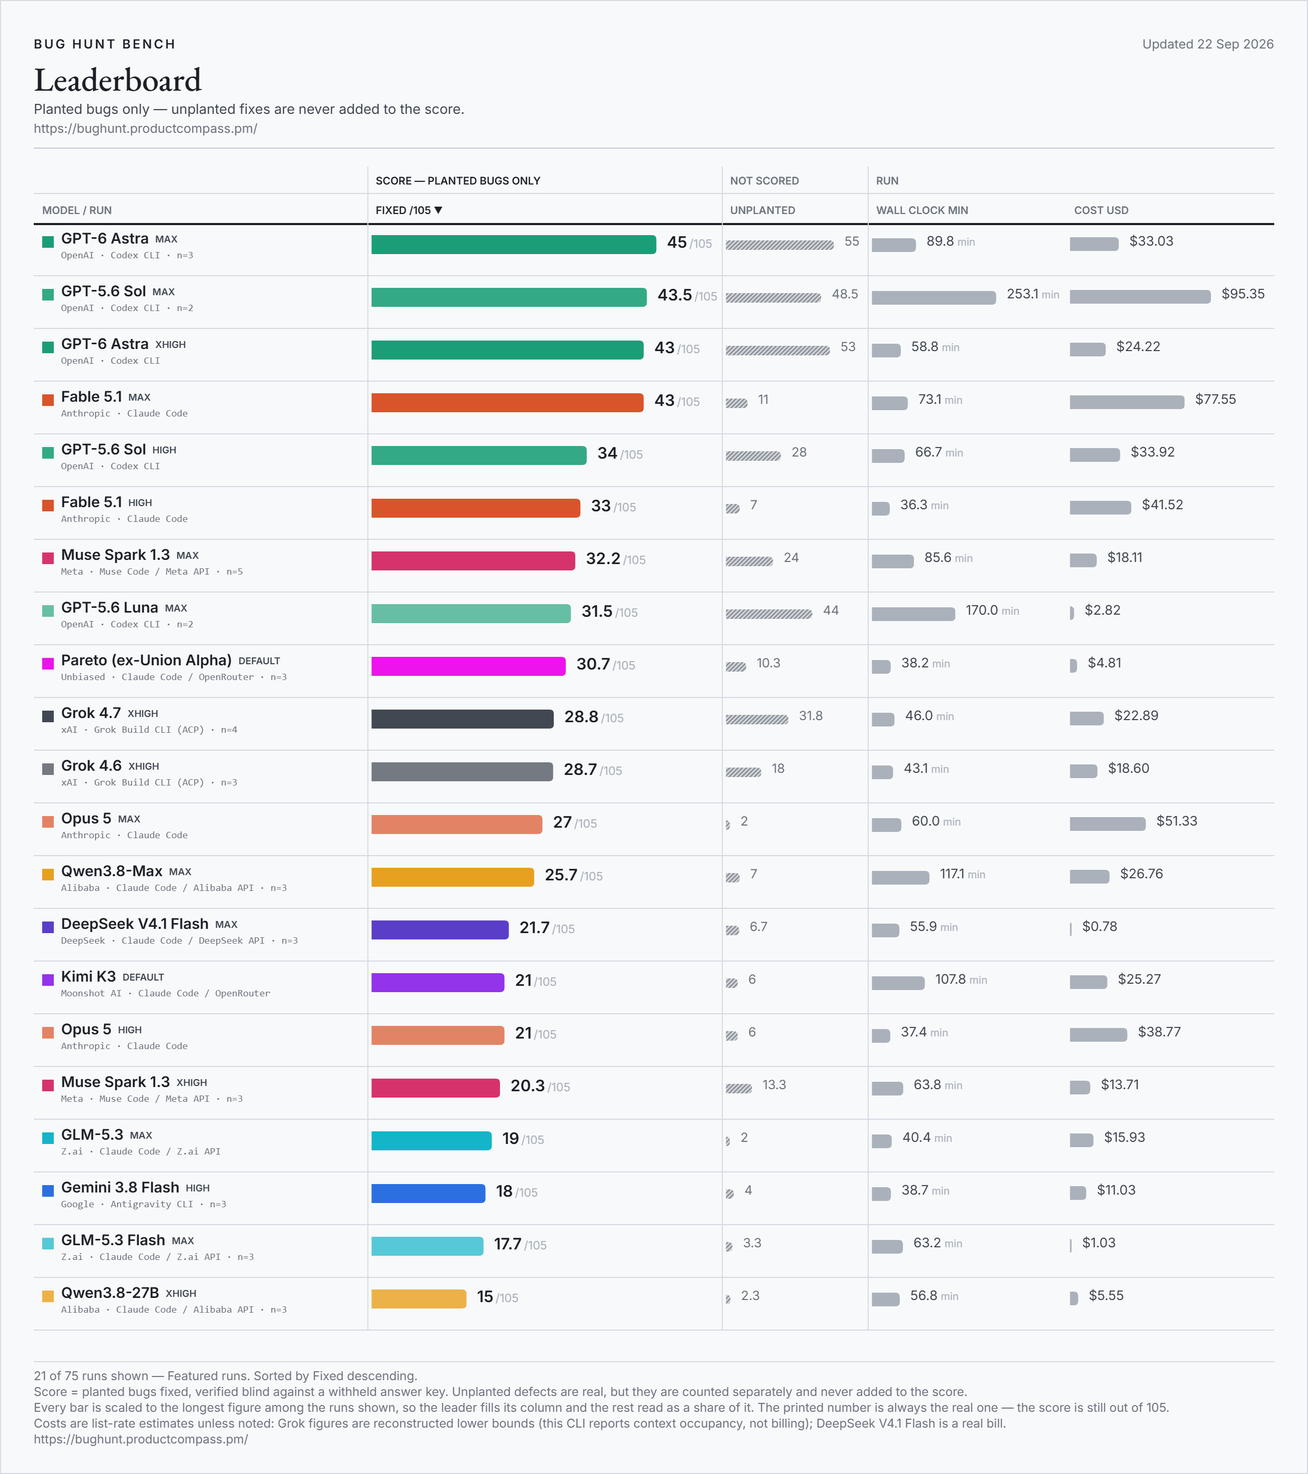
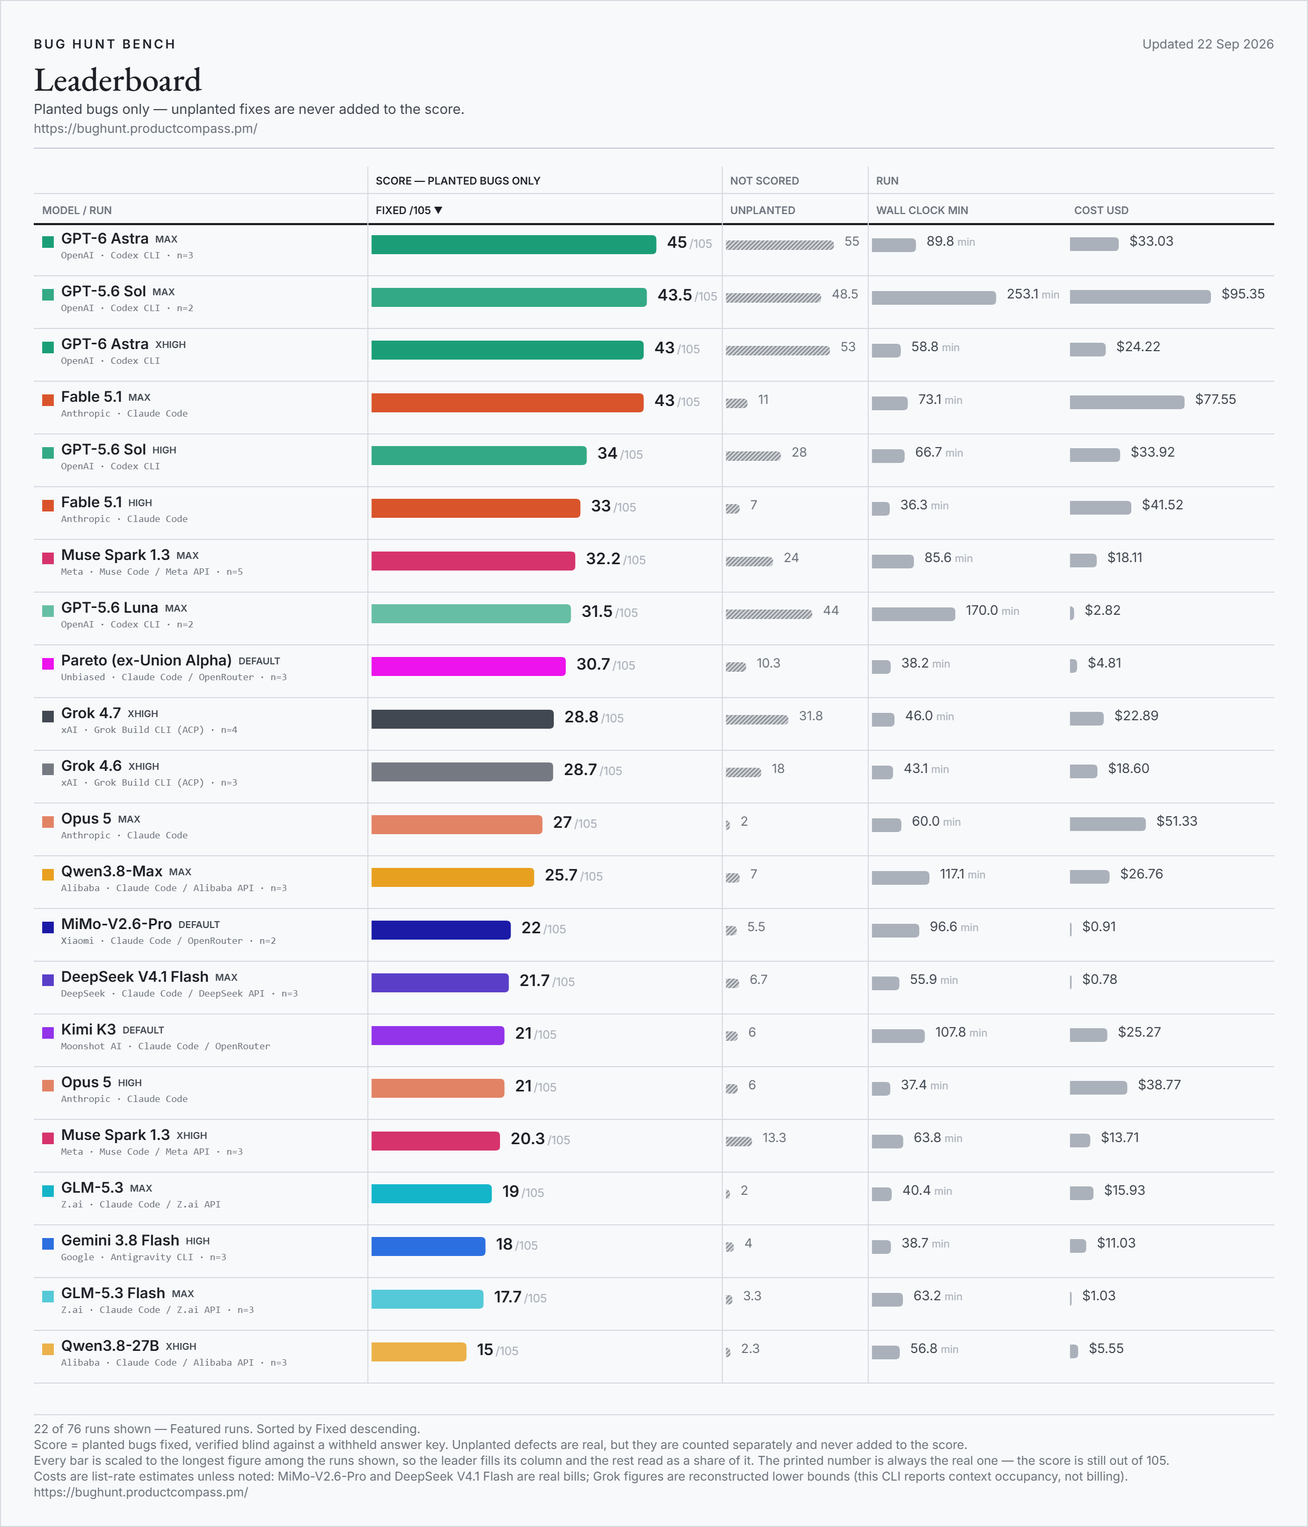
bug hunt bench: MiMo-V2.6-Pro - mean of 2 (22/105)

diff --git a/index.html b/index.html
@@ -22,14 +22,14 @@
 <meta property="og:title" content="Bug Hunt Bench — frontier coding models against real planted bugs">
 <meta property="og:description" content="A blind-graded benchmark of frontier coding models on real bugs planted in two production codebases. The score counts planted bugs only; extra fixes are tracked separately and never added.">
 <meta property="og:url" content="https://bughunt.productcompass.pm/">
-<meta property="og:image" content="https://bughunt.productcompass.pm/og-image.png?v=2026-09-22-99951fce">
+<meta property="og:image" content="https://bughunt.productcompass.pm/og-image.png?v=2026-09-22-772a47c0">
 <meta property="og:image:width" content="1200">
 <meta property="og:image:height" content="630">
 <meta property="og:image:alt" content="Bug Hunt Bench leaderboard">
 <meta name="twitter:card" content="summary_large_image">
 <meta name="twitter:title" content="Bug Hunt Bench — frontier coding models against real planted bugs">
 <meta name="twitter:description" content="A blind-graded benchmark of frontier coding models on real bugs planted in two production codebases. The score counts planted bugs only.">
-<meta name="twitter:image" content="https://bughunt.productcompass.pm/og-image.png?v=2026-09-22-99951fce">
+<meta name="twitter:image" content="https://bughunt.productcompass.pm/og-image.png?v=2026-09-22-772a47c0">
 <meta name="twitter:creator" content="@PawelHuryn">
 
 <link rel="icon" href="/assets/favicon.svg" type="image/svg+xml">

diff --git a/method.html b/method.html
@@ -20,14 +20,14 @@
 <meta property="og:title" content="Method, caveats and definitions — Bug Hunt Bench">
 <meta property="og:description" content="How Bug Hunt Bench is run and graded, what the board cannot tell you, and what every column on it means.">
 <meta property="og:url" content="https://bughunt.productcompass.pm/method">
-<meta property="og:image" content="https://bughunt.productcompass.pm/og-image.png?v=2026-09-22-99951fce">
+<meta property="og:image" content="https://bughunt.productcompass.pm/og-image.png?v=2026-09-22-772a47c0">
 <meta property="og:image:width" content="1200">
 <meta property="og:image:height" content="630">
 <meta property="og:image:alt" content="Bug Hunt Bench leaderboard">
 <meta name="twitter:card" content="summary_large_image">
 <meta name="twitter:title" content="Method, caveats and definitions — Bug Hunt Bench">
 <meta name="twitter:description" content="How Bug Hunt Bench is run and graded, what the board cannot tell you, and what every column on it means.">
-<meta name="twitter:image" content="https://bughunt.productcompass.pm/og-image.png?v=2026-09-22-99951fce">
+<meta name="twitter:image" content="https://bughunt.productcompass.pm/og-image.png?v=2026-09-22-772a47c0">
 <meta name="twitter:creator" content="@PawelHuryn">
 
 <link rel="icon" href="/assets/favicon.svg" type="image/svg+xml">

diff --git a/README.md b/README.md
@@ -7,13 +7,13 @@
 If the numbers save you a benchmark run of your own, **star this repo** — that is what keeps the bench findable, and new models are added as they ship.
 
 <!-- leaderboard:start -->
-![Bug Hunt Bench leaderboard, the featured runs, updated Sep 22, 2026](assets/leaderboard.png?v=2026-09-22-1406c30e)
+![Bug Hunt Bench leaderboard, the featured runs, updated Sep 22, 2026](assets/leaderboard.png?v=2026-09-22-bedd37fd)
 
-**Updated Sep 22, 2026 · 110 rows from 159 scored runs · 34 models · 33 of 105 bugs have never been fixed by any model.**
+**Updated Sep 22, 2026 · 111 rows from 161 scored runs · 34 models · 33 of 105 bugs have never been fixed by any model.**
 
 **Current leader:** GPT-6 Astra at `max` effort — **45 / 105** (22/45 on repo 1, 23/60 on repo 2).
 
-**Best per lab:** OpenAI: GPT-6 Astra (`max`) 45 · Anthropic: Fable 5.1 (`max`) 43 · Meta: Muse Spark 1.3 (`max`) 32.2 · Unbiased: Pareto (ex-Union Alpha) (`default`) 30.7 · xAI: Grok 4.7 (`xhigh`) 28.8 · Alibaba: Qwen3.8-Flash (`max`) 26 · Google: Gemini 3.7 Flash (`high`) 22 · DeepSeek: DeepSeek V4.1 Flash (`max`) 21.7 · Moonshot AI: Kimi K3 (`default`) 21 · Z.ai: GLM-5.3 (`max`) 19 · Xiaomi: MiMo-V2.6-Pro (`enabled`) 18 · Tencent: Hy4 Preview (`default`) 18
+**Best per lab:** OpenAI: GPT-6 Astra (`max`) 45 · Anthropic: Fable 5.1 (`max`) 43 · Meta: Muse Spark 1.3 (`max`) 32.2 · Unbiased: Pareto (ex-Union Alpha) (`default`) 30.7 · xAI: Grok 4.7 (`xhigh`) 28.8 · Alibaba: Qwen3.8-Flash (`max`) 26 · Xiaomi: MiMo-V2.6-Pro (`default`) 22 · Google: Gemini 3.7 Flash (`high`) 22 · DeepSeek: DeepSeek V4.1 Flash (`max`) 21.7 · Moonshot AI: Kimi K3 (`default`) 21 · Z.ai: GLM-5.3 (`max`) 19 · Tencent: Hy4 Preview (`default`) 18
 
 | # | Model | Harness | Effort | Runs | Fixed /105 | Repo 1 /45 | Repo 2 /60 | Extras | Wall | Cost | Date |
 |--:|---|---|---|--:|--:|--:|--:|--:|--:|--:|---|
@@ -47,51 +47,52 @@ If the numbers save you a benchmark run of your own, **star this repo** — that
 | 28 | Qwen3.8-Flash | Claude Code / Alibaba API | low | 1 | **23** | 11 | 12 | 7 | 98 min | $1.37 | 2026-09-11 |
 | 29 | GPT-5.6 Luna | Codex CLI | xhigh | 1 | **23** | 10 | 13 | 53 | 136 min | $2.50 | 2026-08-28 |
 | 30 | Grok 4.6 | Grok Build CLI (ACP) | high | 1 | **23** | 7 | 16 | 16 | 33 min | $15.73 floor | 2026-08-28 |
-| 31 | Grok 4.6 | Grok Build CLI (ACP) | medium | 1 | **22** | 9 | 13 | 11 | 26 min | $5.80 floor | 2026-08-28 |
-| 32 | Gemini 3.7 Flash | Gemini CLI (retired) + model-pinning gateway | high | 1 | **22** | 8 | 14 | 4 | 97 min | $8.43 | 2026-08-24 |
-| 33 | DeepSeek V4.1 Flash | Claude Code / DeepSeek API | max | 3 | **21.7** | 11.3 | 10.3 | 6.7 | 56 min | $0.78 bill | 2026-09-15 |
-| 34 | Fable 5.1 | Claude Code | medium | 1 | **21** | 8 | 13 | 3 | 23 min | $17.46 | 2026-09-10 |
-| 35 | Kimi K3 | Claude Code / OpenRouter | default | 1 | **21** | 4 | 17 | 6 | 108 min | $25.27 | 2026-07-26 |
-| 36 | Opus 5 | Claude Code | high | 1 | **21** | 11 | 10 | 6 | 37 min | $38.77 | 2026-07-26 |
-| 37 | Muse Spark 1.3 | Muse Code / Meta API | xhigh | 3 | **20.3** | 8 | 12.3 | 13.3 | 64 min | $13.71 | 2026-09-14 |
-| 38 | GPT-5.6 Terra | Codex CLI | xhigh | 1 | **20** | 9 | 11 | 29 | 57 min | $8.98 | 2026-08-28 |
-| 39 | Grok 4.7 | Grok Build CLI (ACP) | high | 3 | **19.3** | 8.7 | 10.7 | 15.7 | 38 min | $12.29 floor | 2026-09-21 |
-| 40 | DeepSeek V4.1 Flash | Claude Code / DeepSeek API | high | 1 | **19** | 9 | 10 | 4 | 26 min | $0.31 bill | 2026-09-10 |
-| 41 | GLM-5.3 | Claude Code / Z.ai API | max | 1 | **19** | 9 | 10 | 2 | 40 min | $15.93 | 2026-09-10 |
-| 42 | Muse Spark 1.3 | Muse Code / Meta API | high | 3 | **18.7** | 8.7 | 10 | 19.3 | 76 min | $12.94 | 2026-09-14 |
-| 43 | MiMo-V2.6-Pro | Claude Code / Xiaomi first-party | enabled | 1 | **18** | 9 | 9 | 4 | 75 min | $0.59 | 2026-09-22 |
-| 44 | Hy4 Preview | Claude Code / OpenRouter | default | 1 | **18** | 9 | 9 | 2 | 68 min | $3.13 bill | 2026-08-28 |
-| 45 | GPT-5.6 Terra | Codex CLI | high | 1 | **18** | 7 | 11 | 17 | 28 min | $5.89 | 2026-08-27 |
-| 46 | Gemini 3.8 Flash | Antigravity CLI | high | 3 | **18** | 6.7 | 11.3 | 4 | 39 min | $11.03 | 2026-09-15 |
-| 47 | GLM-5.3 Flash | Claude Code / Z.ai API | max | 3 | **17.7** | 9.3 | 8.3 | 3.3 | 63 min | $1.03 | 2026-09-15 |
-| 48 | Grok 4.5 | Grok Build CLI (ACP) | high | 1 | **17** | 5 | 12 | 10 | 28 min | $8.50 floor | 2026-08-06 |
-| 49 | Muse Spark 1.2 | Claude Code / Meta API | xhigh | 1 | **17** | 6 | 11 | 12 | 36 min | $13.99 | 2026-08-06 |
-| 50 | Ox Alpha (stealth) | Claude Code / OpenRouter | default | 1 | **16** | 8 | 8 | 3 | 59 min | free | 2026-08-25 |
-| 51 | GLM-5.3 Flash | Claude Code / Z.ai API | high | 1 | **16** | 9 | 7 | 4 | 62 min | $0.94 | 2026-09-13 |
-| 52 | DeepSeek V4-Pro | Claude Code / DeepSeek API | max | 1 | **16** | 8 | 8 | 4 | 37 min | $1.89 bill | 2026-09-10 |
-| 53 | Gemini 3.7 Flash | Antigravity CLI | high | 1 | **16** | 4 | 12 | 2 | 23 min | $6.36 | 2026-08-28 |
-| 54 | Grok 4.7 | Grok Build CLI (ACP) | low | 3 | **15.7** | 10.3 | 5.3 | 18.3 | 22 min | $9.36 floor | 2026-09-21 |
-| 55 | GPT-5.6 Terra | Codex CLI | medium | 1 | **15** | 4 | 11 | 6 | 20 min | $3.87 | 2026-08-27 |
-| 56 | Grok 4.6 | Grok Build CLI (ACP) | low | 1 | **15** | 6 | 9 | 9 | 18 min | $4.14 floor | 2026-08-27 |
-| 57 | Qwen3.8-27B | Claude Code / Alibaba API | xhigh | 3 | **15** | 5.7 | 9.3 | 2.3 | 57 min | $5.55 | 2026-09-15 |
-| 58 | Opus 4.8 | Claude Code | max | 1 | **15** | 6 | 9 | 3 | 109 min | $52.07 | 2026-09-10 |
-| 59 | DeepSeek V4-Flash | Claude Code / OpenRouter | default | 1 | **14** | 6 | 8 | 0 | 48 min | $1.52 bill | 2026-08-01 |
-| 60 | GPT-5.6 Luna | Codex CLI | high | 1 | **13** | 5 | 8 | 22 | 64 min | $0.57 | 2026-07-31 |
-| 61 | GLM-5.3 Flash | Claude Code / OpenRouter | default | 1 | **13** | 6 | 7 | 4 | 57 min | $0.79 bill | 2026-08-27 |
-| 62 | DeepSeek V4-Pro | Claude Code / DeepSeek API | high | 1 | **13** | 4 | 9 | 1 | 27 min | $1.08 bill | 2026-09-10 |
-| 63 | Muse Spark 1.3 | Muse Code / Meta API | medium | 3 | **13** | 5.3 | 7.7 | 17.3 | 58 min | $9.24 | 2026-09-14 |
-| 64 | Qwen3.8-27B 8-bit | Claude Code / OpenRouter | default | 3 | **10.7** | 3.7 | 7 | 1.7 | 57 min | $2.97 bill | 2026-09-16 |
-| 65 | Muse Spark 1.3 | Muse Code / Meta API | low | 3 | **9.7** | 5 | 4.7 | 6.7 | 36 min | $5.61 | 2026-09-14 |
-| 66 | GPT-5.6 Luna | Codex CLI | medium | 1 | **9** | 5 | 4 | 5 | 15 min | $0.33 | 2026-08-27 |
-| 67 | GLM-5.3 Flash | Claude Code / Z.ai API | low | 1 | **9** | 7 | 2 | 4 | 29 min | $0.42 | 2026-09-13 |
-| 68 | Sonnet 5 | Claude Code | high | 1 | **9** | 1 | 8 | 4 | 33 min | $15.12 | 2026-07-26 |
-| 69 | Opus 4.8 | Claude Code | high | 1 | **9** | 2 | 7 | 1 | 35 min | $19.35 | 2026-07-26 |
-| 70 | Sonnet 5 | Claude Code | max | 1 | **9** | 3 | 6 | 3 | 61 min | $24.04 | 2026-09-10 |
-| 71 | GPT-5.6 Luna | Codex CLI | low | 1 | **4** | 0 | 4 | 1 | 6 min | $0.10 | 2026-08-27 |
-| 72 | Gemma 4 31B | Claude Code / OpenRouter | default | 1 | **4** | 1 | 3 | 2 | 222 min | $8.61 bill | 2026-09-16 |
-| 73 | Gemma 4 31B 4-bit | Claude Code / OpenRouter | default | 1 | **3** | 1 | 2 | 2 | 25 min | $0.56 bill | 2026-09-16 |
-| 74 | gpt-oss-120b | Claude Code / OpenRouter | default | 3 | **0** | 0 | 0 | 0.3 | 4 min | $0.11 bill | 2026-09-15 |
-| 75 | gpt-oss-20b | Claude Code / OpenRouter | default | 3 | **0** | 0 | 0 | 0 | 7 min | $0.11 bill | 2026-09-15 |
+| 31 | MiMo-V2.6-Pro | Claude Code / OpenRouter | default | 2 | **22** | 10.5 | 11.5 | 5.5 | 97 min | $0.91 bill | 2026-09-22 |
+| 32 | Grok 4.6 | Grok Build CLI (ACP) | medium | 1 | **22** | 9 | 13 | 11 | 26 min | $5.80 floor | 2026-08-28 |
+| 33 | Gemini 3.7 Flash | Gemini CLI (retired) + model-pinning gateway | high | 1 | **22** | 8 | 14 | 4 | 97 min | $8.43 | 2026-08-24 |
+| 34 | DeepSeek V4.1 Flash | Claude Code / DeepSeek API | max | 3 | **21.7** | 11.3 | 10.3 | 6.7 | 56 min | $0.78 bill | 2026-09-15 |
+| 35 | Fable 5.1 | Claude Code | medium | 1 | **21** | 8 | 13 | 3 | 23 min | $17.46 | 2026-09-10 |
+| 36 | Kimi K3 | Claude Code / OpenRouter | default | 1 | **21** | 4 | 17 | 6 | 108 min | $25.27 | 2026-07-26 |
+| 37 | Opus 5 | Claude Code | high | 1 | **21** | 11 | 10 | 6 | 37 min | $38.77 | 2026-07-26 |
+| 38 | Muse Spark 1.3 | Muse Code / Meta API | xhigh | 3 | **20.3** | 8 | 12.3 | 13.3 | 64 min | $13.71 | 2026-09-14 |
+| 39 | GPT-5.6 Terra | Codex CLI | xhigh | 1 | **20** | 9 | 11 | 29 | 57 min | $8.98 | 2026-08-28 |
+| 40 | Grok 4.7 | Grok Build CLI (ACP) | high | 3 | **19.3** | 8.7 | 10.7 | 15.7 | 38 min | $12.29 floor | 2026-09-21 |
+| 41 | DeepSeek V4.1 Flash | Claude Code / DeepSeek API | high | 1 | **19** | 9 | 10 | 4 | 26 min | $0.31 bill | 2026-09-10 |
+| 42 | GLM-5.3 | Claude Code / Z.ai API | max | 1 | **19** | 9 | 10 | 2 | 40 min | $15.93 | 2026-09-10 |
+| 43 | Muse Spark 1.3 | Muse Code / Meta API | high | 3 | **18.7** | 8.7 | 10 | 19.3 | 76 min | $12.94 | 2026-09-14 |
+| 44 | MiMo-V2.6-Pro | Claude Code / Xiaomi first-party | enabled | 1 | **18** | 9 | 9 | 4 | 75 min | $0.59 | 2026-09-22 |
+| 45 | Hy4 Preview | Claude Code / OpenRouter | default | 1 | **18** | 9 | 9 | 2 | 68 min | $3.13 bill | 2026-08-28 |
+| 46 | GPT-5.6 Terra | Codex CLI | high | 1 | **18** | 7 | 11 | 17 | 28 min | $5.89 | 2026-08-27 |
+| 47 | Gemini 3.8 Flash | Antigravity CLI | high | 3 | **18** | 6.7 | 11.3 | 4 | 39 min | $11.03 | 2026-09-15 |
+| 48 | GLM-5.3 Flash | Claude Code / Z.ai API | max | 3 | **17.7** | 9.3 | 8.3 | 3.3 | 63 min | $1.03 | 2026-09-15 |
+| 49 | Grok 4.5 | Grok Build CLI (ACP) | high | 1 | **17** | 5 | 12 | 10 | 28 min | $8.50 floor | 2026-08-06 |
+| 50 | Muse Spark 1.2 | Claude Code / Meta API | xhigh | 1 | **17** | 6 | 11 | 12 | 36 min | $13.99 | 2026-08-06 |
+| 51 | Ox Alpha (stealth) | Claude Code / OpenRouter | default | 1 | **16** | 8 | 8 | 3 | 59 min | free | 2026-08-25 |
+| 52 | GLM-5.3 Flash | Claude Code / Z.ai API | high | 1 | **16** | 9 | 7 | 4 | 62 min | $0.94 | 2026-09-13 |
+| 53 | DeepSeek V4-Pro | Claude Code / DeepSeek API | max | 1 | **16** | 8 | 8 | 4 | 37 min | $1.89 bill | 2026-09-10 |
+| 54 | Gemini 3.7 Flash | Antigravity CLI | high | 1 | **16** | 4 | 12 | 2 | 23 min | $6.36 | 2026-08-28 |
+| 55 | Grok 4.7 | Grok Build CLI (ACP) | low | 3 | **15.7** | 10.3 | 5.3 | 18.3 | 22 min | $9.36 floor | 2026-09-21 |
+| 56 | GPT-5.6 Terra | Codex CLI | medium | 1 | **15** | 4 | 11 | 6 | 20 min | $3.87 | 2026-08-27 |
+| 57 | Grok 4.6 | Grok Build CLI (ACP) | low | 1 | **15** | 6 | 9 | 9 | 18 min | $4.14 floor | 2026-08-27 |
+| 58 | Qwen3.8-27B | Claude Code / Alibaba API | xhigh | 3 | **15** | 5.7 | 9.3 | 2.3 | 57 min | $5.55 | 2026-09-15 |
+| 59 | Opus 4.8 | Claude Code | max | 1 | **15** | 6 | 9 | 3 | 109 min | $52.07 | 2026-09-10 |
+| 60 | DeepSeek V4-Flash | Claude Code / OpenRouter | default | 1 | **14** | 6 | 8 | 0 | 48 min | $1.52 bill | 2026-08-01 |
+| 61 | GPT-5.6 Luna | Codex CLI | high | 1 | **13** | 5 | 8 | 22 | 64 min | $0.57 | 2026-07-31 |
+| 62 | GLM-5.3 Flash | Claude Code / OpenRouter | default | 1 | **13** | 6 | 7 | 4 | 57 min | $0.79 bill | 2026-08-27 |
+| 63 | DeepSeek V4-Pro | Claude Code / DeepSeek API | high | 1 | **13** | 4 | 9 | 1 | 27 min | $1.08 bill | 2026-09-10 |
+| 64 | Muse Spark 1.3 | Muse Code / Meta API | medium | 3 | **13** | 5.3 | 7.7 | 17.3 | 58 min | $9.24 | 2026-09-14 |
+| 65 | Qwen3.8-27B 8-bit | Claude Code / OpenRouter | default | 3 | **10.7** | 3.7 | 7 | 1.7 | 57 min | $2.97 bill | 2026-09-16 |
+| 66 | Muse Spark 1.3 | Muse Code / Meta API | low | 3 | **9.7** | 5 | 4.7 | 6.7 | 36 min | $5.61 | 2026-09-14 |
+| 67 | GPT-5.6 Luna | Codex CLI | medium | 1 | **9** | 5 | 4 | 5 | 15 min | $0.33 | 2026-08-27 |
+| 68 | GLM-5.3 Flash | Claude Code / Z.ai API | low | 1 | **9** | 7 | 2 | 4 | 29 min | $0.42 | 2026-09-13 |
+| 69 | Sonnet 5 | Claude Code | high | 1 | **9** | 1 | 8 | 4 | 33 min | $15.12 | 2026-07-26 |
+| 70 | Opus 4.8 | Claude Code | high | 1 | **9** | 2 | 7 | 1 | 35 min | $19.35 | 2026-07-26 |
+| 71 | Sonnet 5 | Claude Code | max | 1 | **9** | 3 | 6 | 3 | 61 min | $24.04 | 2026-09-10 |
+| 72 | GPT-5.6 Luna | Codex CLI | low | 1 | **4** | 0 | 4 | 1 | 6 min | $0.10 | 2026-08-27 |
+| 73 | Gemma 4 31B | Claude Code / OpenRouter | default | 1 | **4** | 1 | 3 | 2 | 222 min | $8.61 bill | 2026-09-16 |
+| 74 | Gemma 4 31B 4-bit | Claude Code / OpenRouter | default | 1 | **3** | 1 | 2 | 2 | 25 min | $0.56 bill | 2026-09-16 |
+| 75 | gpt-oss-120b | Claude Code / OpenRouter | default | 3 | **0** | 0 | 0 | 0.3 | 4 min | $0.11 bill | 2026-09-15 |
+| 76 | gpt-oss-20b | Claude Code / OpenRouter | default | 3 | **0** | 0 | 0 | 0 | 7 min | $0.11 bill | 2026-09-15 |
 
 **Runs** is how many independent runs the row is built from. A row at `1` is a single measurement. A row above `1` is the MEAN of that many runs of an identical configuration - same model, prompt, harness, route, effort flag and judge - and every count, wall and cost on it is averaged, which is why those rows carry a decimal. The individual runs behind a mean are published in full in the metrics CSVs, so the spread stays auditable: this board has measured a 9-point range of 105 on a fixed configuration, so a single run is not a measurement of a model, and two rows at `1` that differ by a few points may not differ at all.
 

diff --git a/results/run-notes.md b/results/run-notes.md
@@ -2,7 +2,7 @@
 
 Every row on the board, with the note and caveat it carries. Generated from `data/benchmark.json` by `bench_golive.py` - do not edit by hand.
 
-Updated Sep 22, 2026 · 110 rows from 159 scored runs. Superseded rows are listed last.
+Updated Sep 22, 2026 · 111 rows from 161 scored runs. Superseded rows are listed last.
 
 ## GPT-6 Astra (max effort) - mean of 3
 
@@ -181,6 +181,14 @@ The board's first Qwen row that does not go through an aggregator: Claude Code s
 **23 / 105** · repo 1 7/45 · repo 2 16/60 · 16 unplanted · 33.0 min · $15.73 floor · `high` · Grok Build CLI (ACP) · single run · 2026-08-28
 
 The missing Grok 4.6 dial tier (between medium 23 and xhigh, a rung since run three times for a mean of 29 - this row is still a single run and the gap above it is smaller than it looked when both endpoints were n=1), run on Windows when the macOS delegation stalled. Effort verified active by zero-token ACP readback. Wall ran alongside the Codex xhigh chains on a separate subscription - minor concurrency.
+
+## MiMo-V2.6-Pro - mean of 2
+
+**22 / 105** · repo 1 10.5/45 · repo 2 11.5/60 · 5.5 unplanted · 96.6 min · $0.91 bill · `default` · Claude Code / OpenRouter · mean of 2 runs · 2026-09-22
+
+**Caveat.** Two runs of an identical configuration scoring 20 and 24 of 105 - spread 4, in line with what this board has already measured elsewhere. Cost is a real OpenRouter bill across both runs. Effort is `default`: this route's reasoning field is accepted but measured inert on this model, so this is not a measurement of the model at any particular reasoning level. Runs shared the laptop with benchmark legs from other vendors, so wall figures are contended and biased upward; scores and cost are unaffected.
+
+Xiaomi's MiMo-V2.6-Pro driven by Claude Code through an Anthropic-API shim onto OpenRouter, published as the MEAN OF TWO INDEPENDENT RUNS. Runs scored 20 and 24 of 105 (repo 1: 9, 12 of 45 - repo 2: 11, 12 of 60). Mean 22.0, spread 4. *** THIS SUPERSEDES A SINGLE RUN OF 20 *** the earlier row was one draw on a model nothing on this board had seen before; two runs of the same configuration give a spread instead of a single, unreplicated number. *** WALL AND COST *** Walls 56.4, 136.9 minutes, mean 96.7; cost $0.79, $1.03, mean $0.91. COST IS A REAL BILL, the OpenRouter credits delta across both runs' legs, comparable to other billed rows here and not to list-priced or floor-reconstructed ones. *** GENUINE EXTRAS *** 3 and 8 across the two runs, mean 5.5 - real defects found in the repos that are not part of the planted set. *** THE DIAL, OR LACK OF ONE *** this route's `reasoning` field is accepted but measured inert on this model (see the sibling first-party and default-row notes on this board); `default` never named a state that could be asked for again, and neither run in this mean tried to assert one. *** RECEIPTS *** All four legs exited 0. Legs SEQUENTIAL within every run, one repo at a time. The runs shared the laptop with legs from other vendors, which the row's wall marker discloses; scores, tokens and cost are untouched by that - only the clock is. Judge: blind Codex gpt-5.5, neither this model nor a sibling of it.
 
 ## Grok 4.6 (medium) seq
 
@@ -594,7 +602,7 @@ DeepSeek newest Flash generation, benchmarked on DeepSeek OWN Anthropic-compatib
 
 **20 / 105** · repo 1 9/45 · repo 2 11/60 · 3 unplanted · 56.4 min · $0.79 bill · `default` · Claude Code / OpenRouter · single run · 2026-09-22
 
-**Superseded.** Superseded 2026-09-22 by the first-party row (18/105, effort explicitly asserted). This row ran at `default` over an aggregator hop - the aggregator's reasoning dial is accepted but measured inert, so `default` never named a state that could be asked for again. The first-party row asserts the model's one real toggle (`thinking.type=enabled`) explicitly and drops the aggregator hop entirely; it scored 2 points lower (18 vs 20), inside the noise this board has already measured elsewhere (widest observed spread: 6 of 105) and expected here since both rows almost certainly ran with reasoning already on. Nothing here is retracted - the 20 happened and this is its receipt - but it is no longer the row that best answers whether reasoning is on for this model.
+**Superseded.** Superseded 2026-09-22 by the first-party row (18/105, effort explicitly asserted). This row ran at `default` over an aggregator hop - the aggregator's reasoning dial is accepted but measured inert, so `default` never named a state that could be asked for again. The first-party row asserts the model's one real toggle (`thinking.type=enabled`) explicitly and drops the aggregator hop entirely; it scored 2 points lower (18 vs 20), inside the noise this board has already measured elsewhere (widest observed spread: 6 of 105) and expected here since both rows almost certainly ran with reasoning already on. Nothing here is retracted - the 20 happened and this is its receipt - but it is no longer the row that best answers whether reasoning is on for this model. The OpenRouter route itself was also independently replicated: see 'MiMo-V2.6-Pro - mean of 2' (mean of two runs, 22.0 of 105) for the same-route, same-configuration successor. This row is superseded on two separate axes - route (the first-party row) and sample size (the mean row) - neither displacing the other.
 
 **Caveat.** ONE RUN, not a mean. Models on this board have moved several points between runs of an identical configuration - the widest observed spread is 6 of 105 - so read this number with that much slack in either direction. Effort is `default`: the route's `reasoning` field is accepted but measured inert (n=3 per condition, 2026-09-22), so a dial does exist here, contrary to what an earlier version of this row said, but it does not change behaviour - this is still not a measurement of the model at any particular reasoning level. The wall figure is contended: other vendors' legs shared the machine.
 
